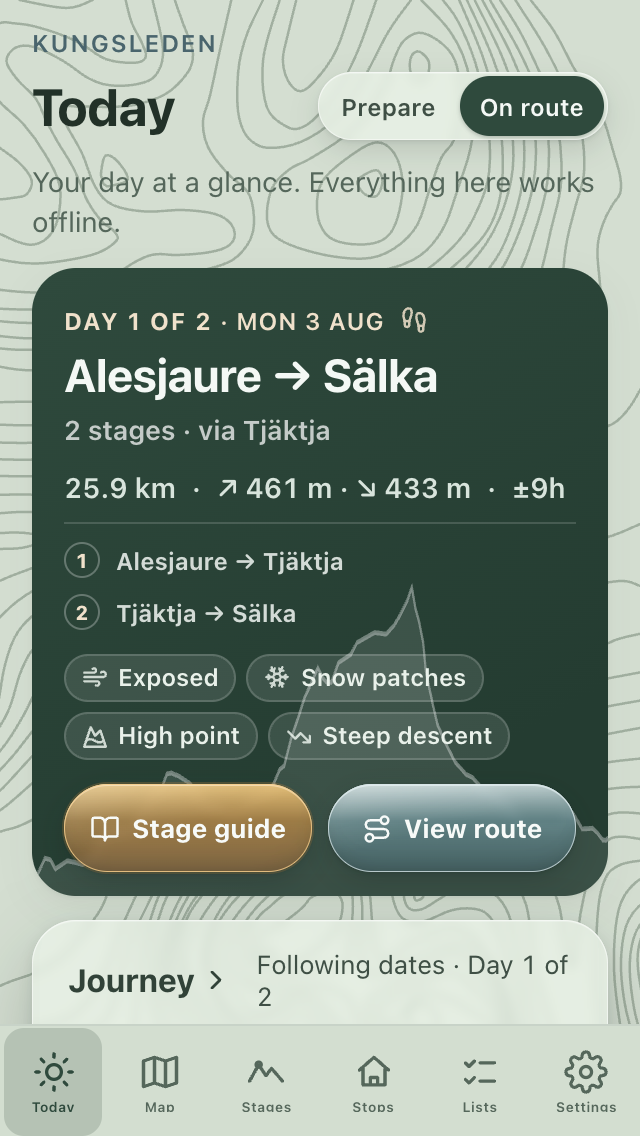
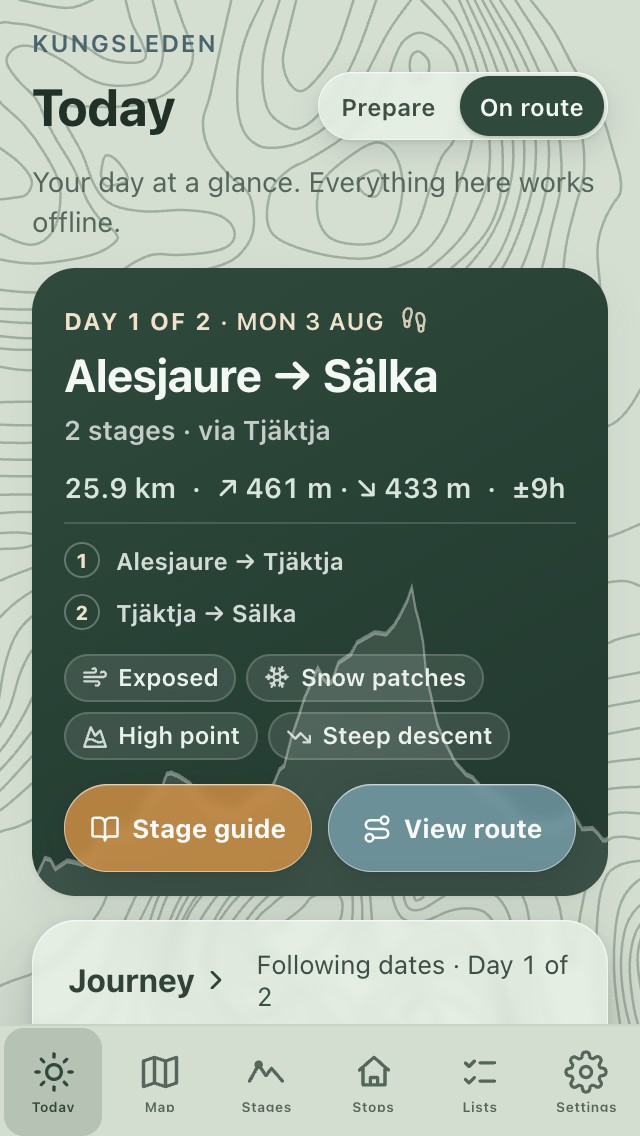
Use panel glass material for hiking actions
The gradient-body construction from 5186399 read as glossy gel pills — a
bright cap, dark base and bevelled character foreign to the calm frosted
panes below it. This removes that construction entirely and makes the
actions the Journey/Tonight material itself with one uniform tint per
variant: the same flat translucent fill on the element, the shared
--glass-blur/saturate/brightness backdrop lift, the capsule's ::before
optical edge (hairline --glass-rim + 1px --glass-highlight, inner shade
omitted at control size like .today-mode), .today-mode's control-scale
shadows, and the shared .today-action-card brightness-pop hover.

The only button-specific ingredient is --action-tint, one constant colour
per variant, pre-lightened along the token's own hue so the pane
re-composites over the dark hero to ≈ the ORIGINAL solid action colours
(--cloudberry / --glacier) instead of khaki or grey-teal, while ~30% of the
backdrop — the elevation silhouette — stays live through the surface the
same way contours read through the panels. No vertical gradients, caps,
dark bands or sheens remain; labels stay fully opaque. Fallback and
reduced-transparency/contrast modes keep uniform branded fills (near-solid
tokens without blur; darker family steps with strengthened rims in the
accessibility modes). Structure, navigation and non-hiking actions
unchanged; tests fence the shared-material contract and reject gradients.

Changed region(s): [[0.0938, 0.6778, 0.9062, 0.7702]]

diff --git a/src/styles/global.css b/src/styles/global.css
@@ -2600,47 +2600,38 @@ button.stop-fac:focus-visible {
   transform: none;
 }
 
-/* Hiking-only liquid glass in the HOUSE ACTION COLOURS — built from the SAME
-   material anatomy as the Journey/Tonight panes (.today-glass) and the mode
-   capsule (.today-mode), translated to a branded compact pill:
-     1. button        — backdrop lift through the shared --glass-* knobs (the
-                        small blur keeps the elevation line legible through
-                        the pane; brightness cuts the muddiness — on the dark
-                        hero it works one step harder than on paper) + a
-                        control-scale outer shadow;
-     2. ::before body — the brand-colour layer. A vertical gradient of the
-                        token family (light kin on top, token in the body,
-                        dark kin at the base) rather than one washed-out
-                        rgba: composited over the spruce hero the surface
-                        still READS cloudberry / glacier instead of the
-                        khaki / grey-teal a flat translucent tint collapses
-                        into. Alphas open slightly toward the base so the
-                        silhouette stays perceptible where it crosses;
-     3. ::after optics— hairline inset rim (the house edge — a real border
-                        renders chunky and uneven on this radius), 1px top
-                        catch-light, a restrained lower inner shade, and a
-                        diagonal sheen. Both pseudos sit UNDER the label
-                        (negative z-index inside the isolated button) so
-                        text and icons stay fully crisp.
-   Variant knobs only carry colour; the structure is shared. */
+/* Hiking-only liquid glass = the Today panel material with a uniform brand
+   tint. This is the SAME construction as .today-glass--light / .today-mode,
+   not a button interpretation of it: one flat translucent fill on the
+   element, the shared --glass-blur/saturate/brightness backdrop lift, and
+   the capsule's own ::before optical edge (hairline --glass-rim + 1px
+   --glass-highlight; like .today-mode, the card-scale inner shade is
+   omitted at control size) over .today-mode's control-scale shadows. The
+   only button-specific ingredient is --action-tint — ONE constant colour
+   per variant, no gradient stops.
+
+   Tint derivation: a flat token-alpha fill over the dark hero composites
+   toward khaki/grey-teal, so each tint is the house token pre-lightened
+   along its own hue such that tint over the spruce-700 hero band re-
+   composites to ≈ the ORIGINAL solid action colour (--cloudberry #b78443 /
+   --glacier #6a8d95) while ~30% of the backdrop — contours, silhouette —
+   stays live through the pane, exactly like the panels over the contour
+   background. */
 .hero-action--glass {
-  --action-body-top: rgba(215, 229, 232, 0.85); /* --glacier-soft */
-  --action-body-mid: rgba(106, 141, 149, 0.74); /* --glacier */
-  --action-body-deep: rgba(74, 101, 109, 0.68); /* --glacier-700 */
-  --action-rim: rgba(215, 229, 232, 0.8);
-  --action-catch: rgba(240, 250, 252, 0.5);
+  /* uniform glacier pane: composites back to ≈ --glacier over the hero */
+  --action-tint: rgba(131, 172, 189, 0.68);
   position: relative;
-  isolation: isolate;
   border: 0;
   color: #f7faf8;
-  background: transparent;
+  background: var(--action-tint);
   backdrop-filter: blur(var(--glass-blur, 3px)) saturate(var(--glass-saturate, 1.15))
-    brightness(1.12);
+    brightness(var(--glass-brightness, 1.04));
   -webkit-backdrop-filter: blur(var(--glass-blur, 3px))
-    saturate(var(--glass-saturate, 1.15)) brightness(1.12);
+    saturate(var(--glass-saturate, 1.15)) brightness(var(--glass-brightness, 1.04));
   box-shadow:
-    0 1px 2px rgba(12, 24, 20, 0.16),
-    0 5px 14px rgba(12, 24, 20, 0.18);
+    0 1px 2px rgba(12, 24, 20, 0.08),
+    0 5px 14px rgba(12, 24, 20, 0.12);
+  transition: transform 0.08s ease, filter 0.15s ease;
 }
 .hero-action--glass::before {
   content: '';
@@ -2648,90 +2639,41 @@ button.stop-fac:focus-visible {
   inset: 0;
   border-radius: inherit;
   pointer-events: none;
-  z-index: -2;
-  background: linear-gradient(
-    180deg,
-    var(--action-body-top),
-    var(--action-body-mid) 42%,
-    var(--action-body-deep)
-  );
-}
-.hero-action--glass::after {
-  content: '';
-  position: absolute;
-  inset: 0;
-  border-radius: inherit;
-  pointer-events: none;
-  z-index: -1;
-  background: linear-gradient(
-    165deg,
-    rgba(255, 255, 255, 0.26),
-    rgba(255, 255, 255, 0.07) 30%,
-    transparent 48%
-  );
   box-shadow:
-    inset 0 0 0 var(--glass-rim-w, 0.5px) var(--action-rim),
-    inset 0 1px 0 var(--action-catch),
-    inset 0 -8px 14px -12px rgba(10, 24, 18, 0.5);
+    inset 0 0 0 var(--glass-rim-w, 0.5px) var(--glass-rim, rgba(255, 255, 255, 0.5)),
+    inset 0 1px 0 var(--glass-highlight, rgba(255, 255, 255, 0.24));
 }
 .hero-action--glass.hero-action--primary {
-  --action-body-top: rgba(245, 201, 123, 0.9); /* the focus gold #f5c97b */
-  --action-body-mid: rgba(183, 132, 67, 0.78); /* --cloudberry */
-  --action-body-deep: rgba(154, 106, 62, 0.7); /* dark cloudberry, .pill-current ink */
-  --action-rim: rgba(245, 204, 137, 0.85);
-  --action-catch: rgba(255, 239, 213, 0.55);
-  box-shadow:
-    0 1px 2px rgba(12, 24, 20, 0.16),
-    0 5px 14px rgba(12, 24, 20, 0.2),
-    0 0 0 1px rgba(183, 132, 67, 0.3);
+  /* uniform cloudberry pane: composites back to ≈ --cloudberry */
+  --action-tint: rgba(234, 154, 68, 0.72);
 }
-/* Hover shifts the internal light and rim rather than whitening the body. */
+/* Hover is the shared glass hover (.today-action-card): a brightness pop
+   that keeps the material intact instead of swapping the fill. */
 @media (hover: hover) {
   .hero-action--glass:hover {
-    --action-body-top: rgba(215, 229, 232, 0.95);
-    --action-body-mid: rgba(106, 141, 149, 0.82);
-    --action-rim: rgba(215, 229, 232, 0.95);
-    --action-catch: rgba(240, 250, 252, 0.65);
-  }
-  .hero-action--glass.hero-action--primary:hover {
-    --action-body-top: rgba(245, 201, 123, 0.98);
-    --action-body-mid: rgba(183, 132, 67, 0.86);
-    --action-rim: rgba(245, 204, 137, 1);
-    --action-catch: rgba(255, 239, 213, 0.7);
+    filter: brightness(1.07);
   }
 }
-/* No backdrop-filter: the body densifies toward the darker family step so
-   13px bold white labels stay readable, while copper-versus-glacier survives. */
+/* No backdrop-filter: like the panels' near-opaque paper fallback, the pane
+   densifies — here to the near-solid house action fills themselves. */
 @supports not ((backdrop-filter: blur(1px)) or (-webkit-backdrop-filter: blur(1px))) {
   .hero-action--glass {
-    --action-body-top: rgba(106, 141, 149, 0.96); /* --glacier */
-    --action-body-mid: rgba(74, 101, 109, 0.96); /* --glacier-700 */
-    --action-body-deep: rgba(74, 101, 109, 0.97);
+    --action-tint: rgba(106, 141, 149, 0.96); /* --glacier */
   }
   .hero-action--glass.hero-action--primary {
-    --action-body-top: rgba(183, 132, 67, 0.96); /* --cloudberry */
-    --action-body-mid: rgba(154, 106, 62, 0.96); /* dark cloudberry */
-    --action-body-deep: rgba(154, 106, 62, 0.97);
-    --action-rim: #d2a15f;
+    --action-tint: rgba(183, 132, 67, 0.96); /* --cloudberry */
   }
 }
 @media (prefers-reduced-transparency: reduce), (prefers-contrast: more) {
   .hero-action--glass {
-    --action-body-top: rgba(74, 101, 109, 0.97); /* flat --glacier-700 */
-    --action-body-mid: rgba(74, 101, 109, 0.97);
-    --action-body-deep: rgba(74, 101, 109, 0.97);
-    --action-rim: rgba(255, 255, 255, 0.8);
+    --action-tint: rgba(74, 101, 109, 0.97); /* --glacier-700 */
+    --glass-rim: rgba(255, 255, 255, 0.85); /* scoped to the pill's edge */
     backdrop-filter: none;
     -webkit-backdrop-filter: none;
   }
   .hero-action--glass.hero-action--primary {
-    --action-body-top: rgba(154, 106, 62, 0.97); /* flat dark cloudberry */
-    --action-body-mid: rgba(154, 106, 62, 0.97);
-    --action-body-deep: rgba(154, 106, 62, 0.97);
-    --action-rim: #f0e1cb; /* --cloudberry-soft */
-  }
-  .hero-action--glass::after {
-    background: none; /* no sheen in reduced modes — the rim carries the edge */
+    --action-tint: rgba(154, 106, 62, 0.97); /* dark cloudberry, .pill-current ink */
+    --glass-rim: #f0e1cb; /* --cloudberry-soft */
   }
 }
 .hero + .card {
